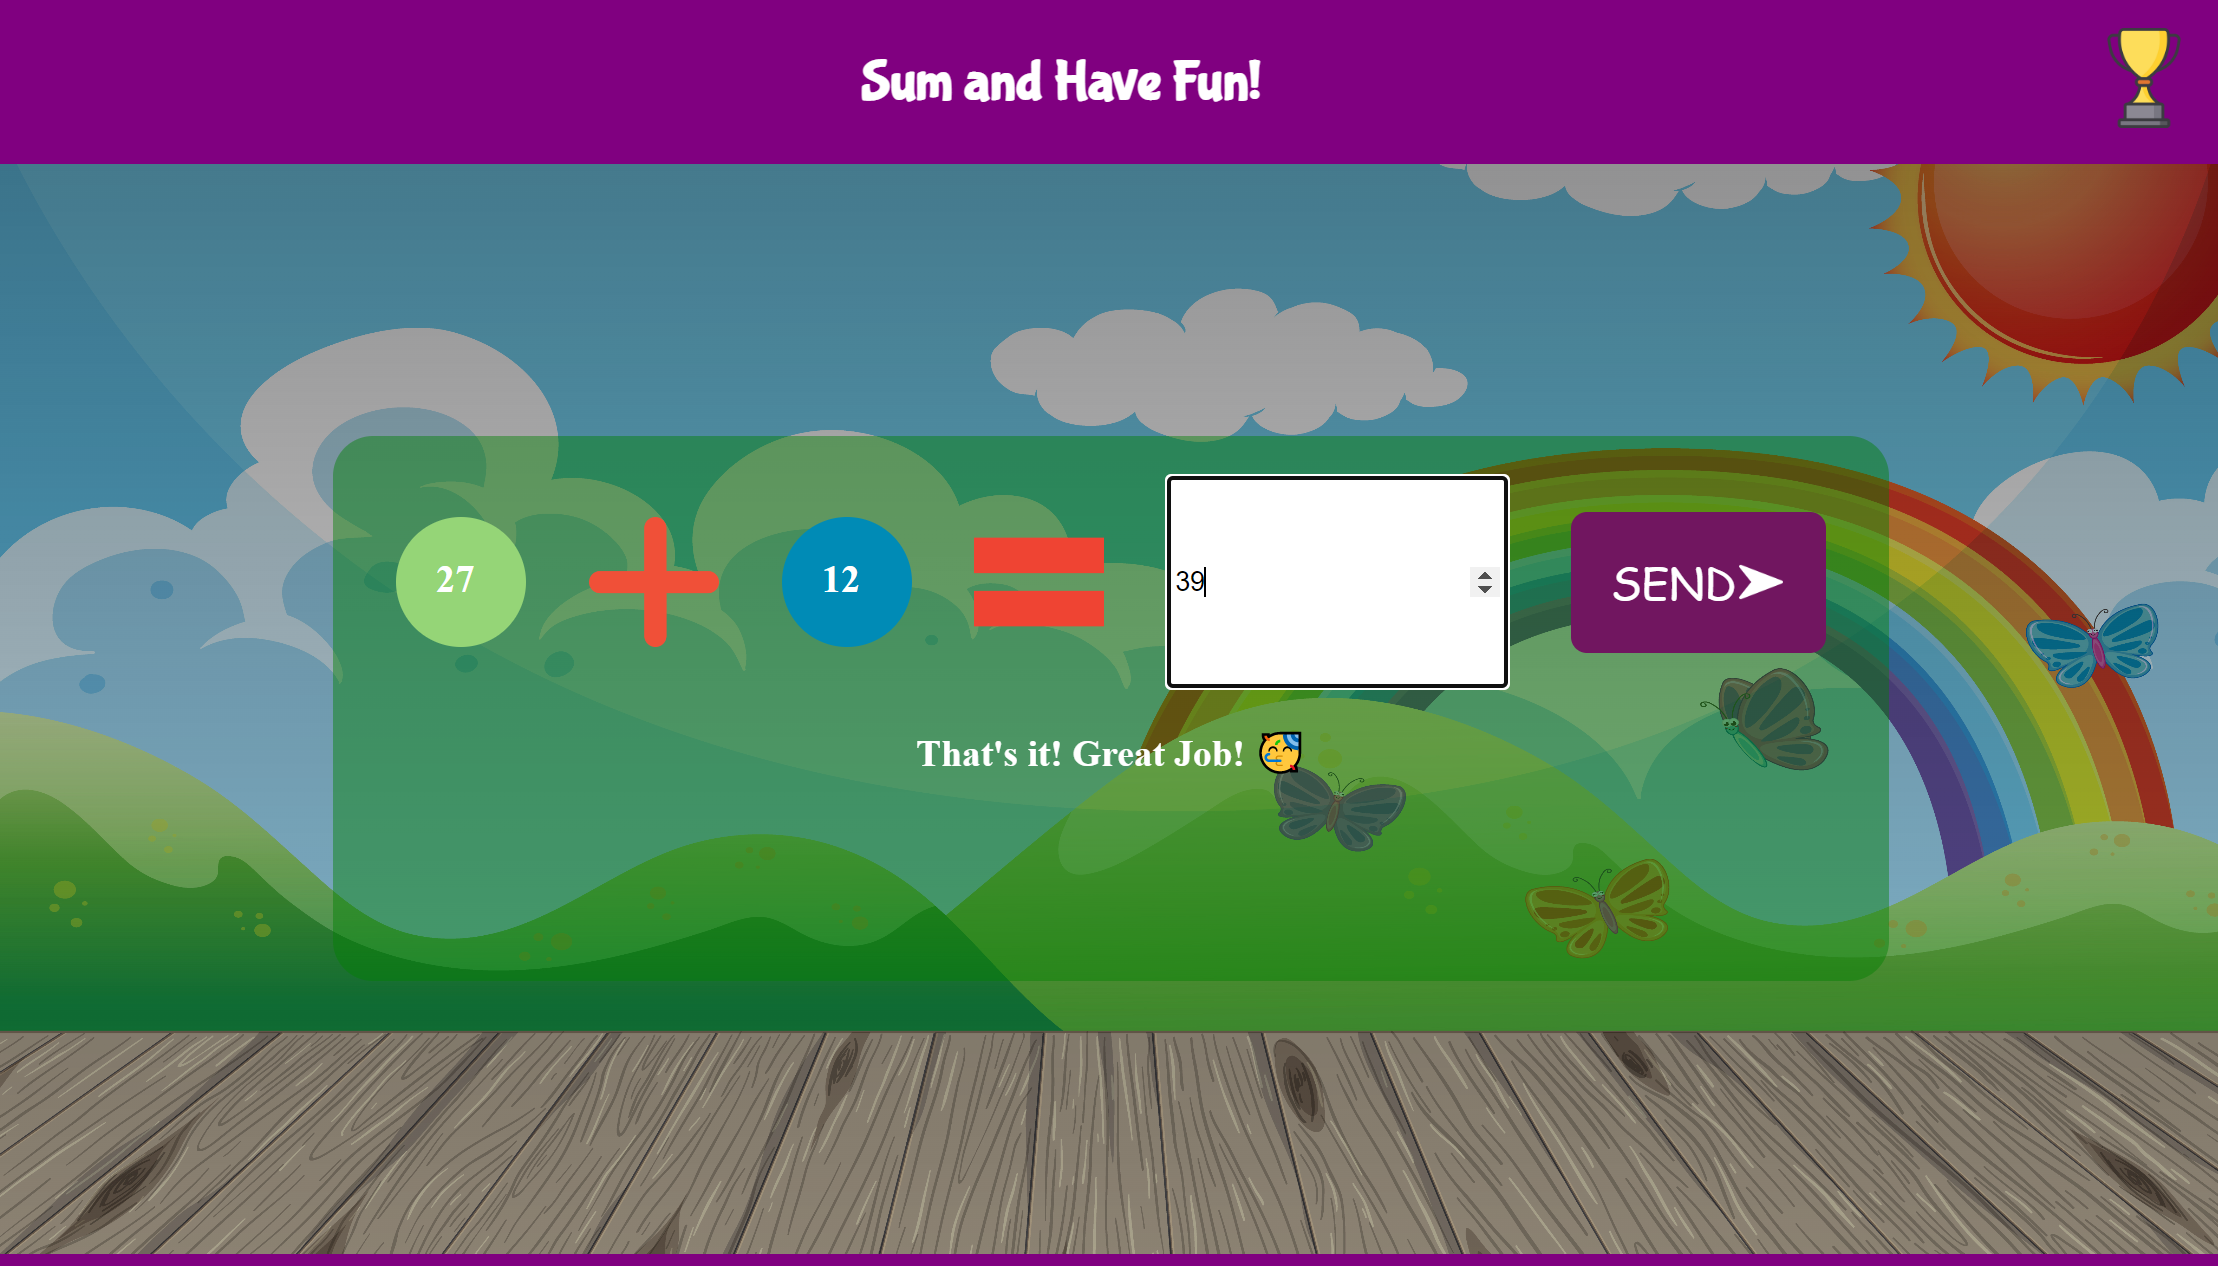
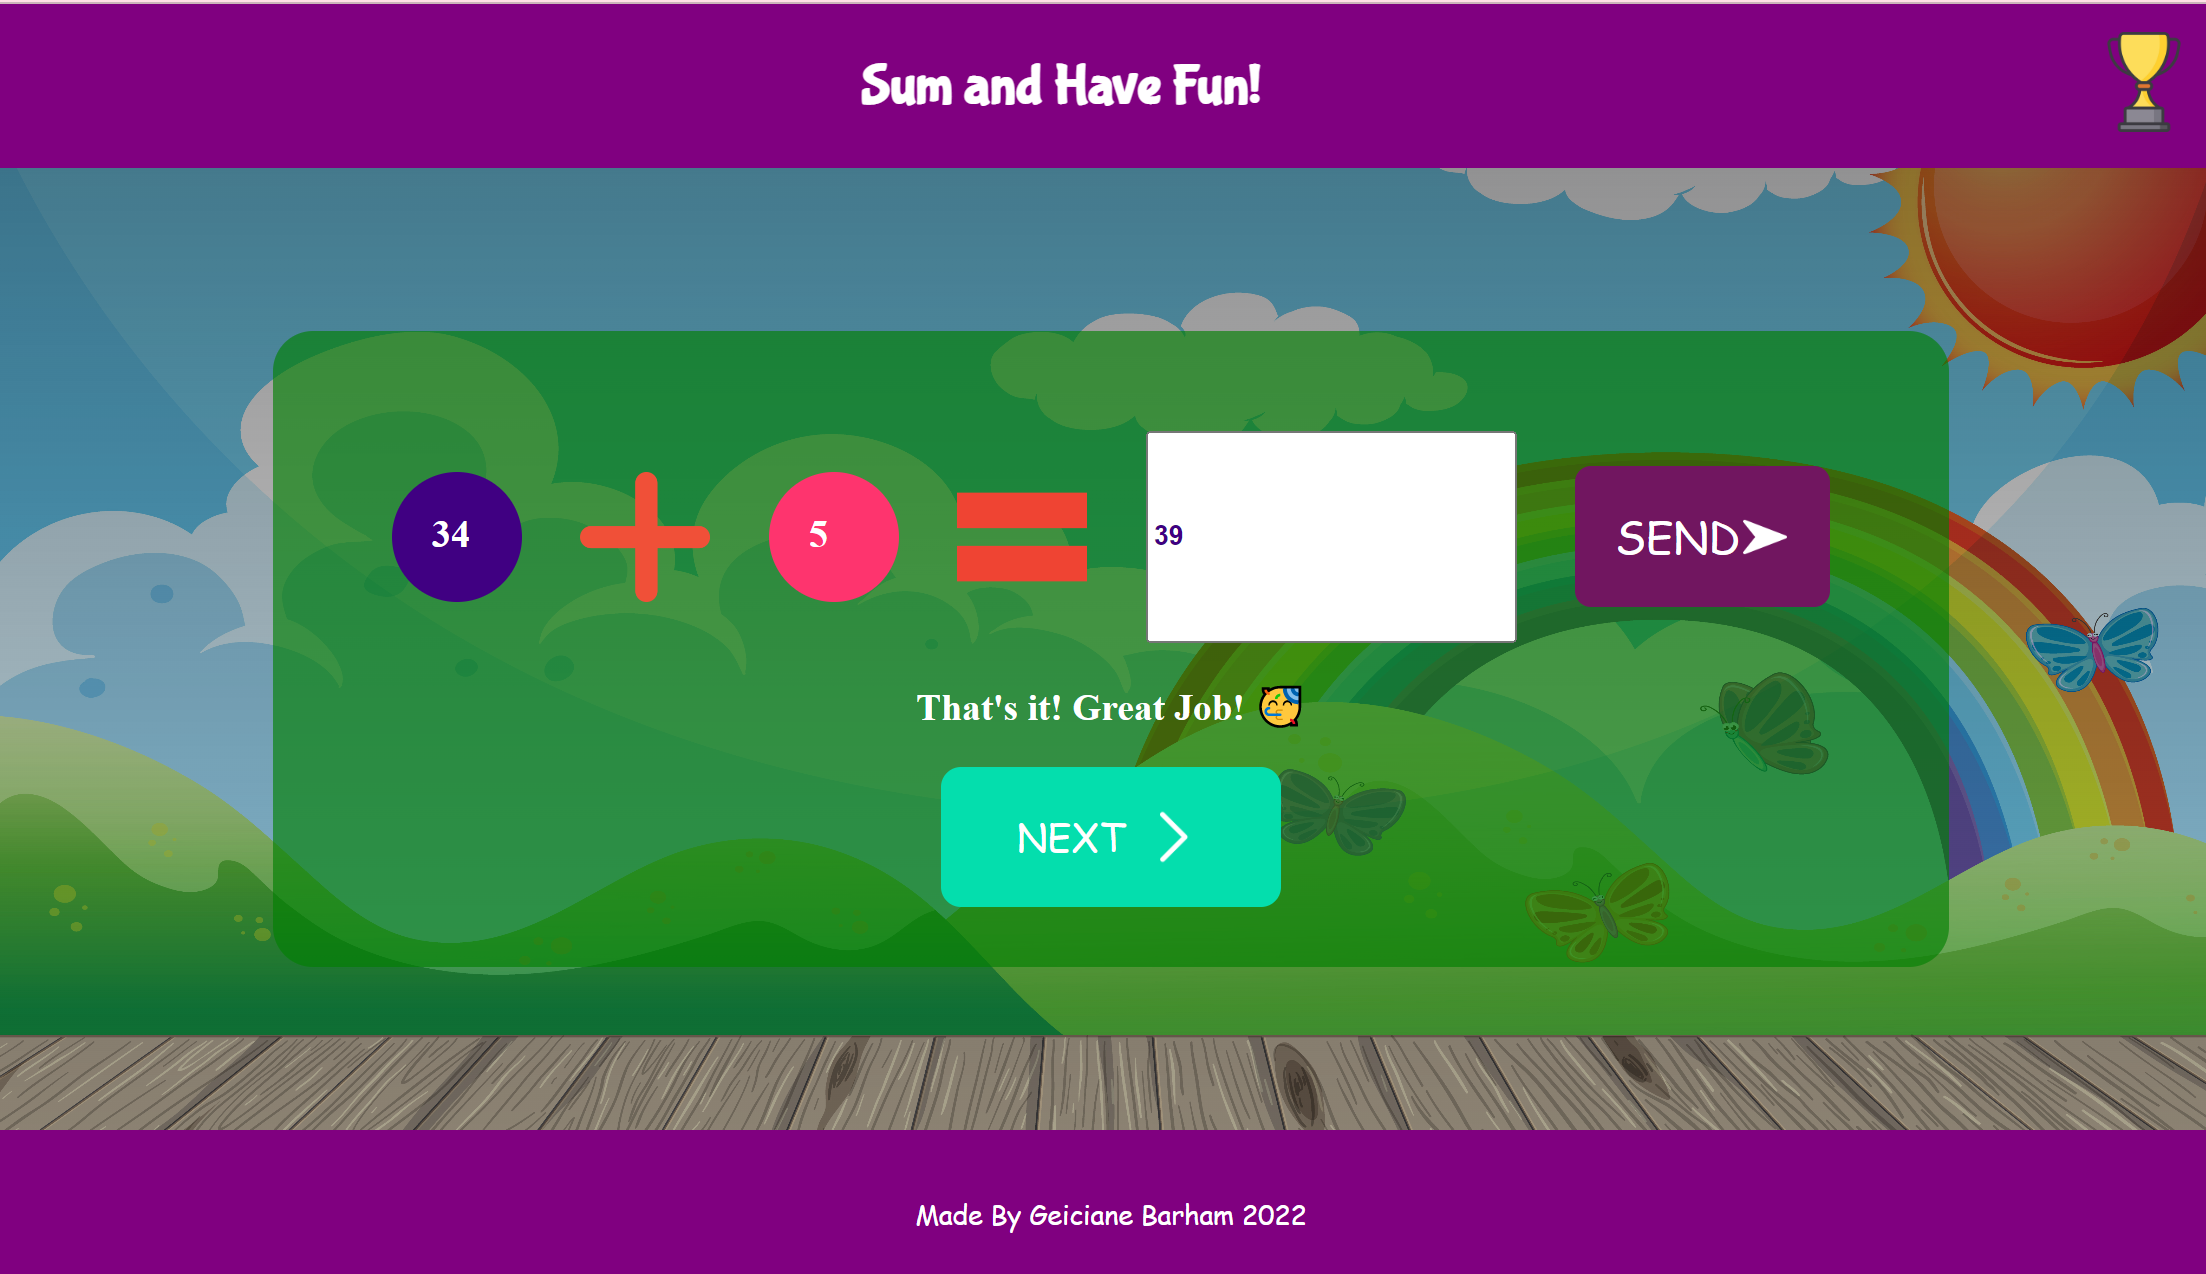
last changes in color

diff --git a/src/components/form/form.css b/src/components/form/form.css
@@ -6,20 +6,17 @@
 }
 
 .Correct {
-  background-color: rgba(0, 128, 0, 0.438);
-  width: 70%;
-  border-radius: 20px;
-  height: 50%;
+  background-color: rgba(0, 128, 0, 0.634);
+
 }
 
 .incorrect {
-  background-color: rgba(255, 0, 0, 0.226);
-  width: 70%;
-  border-radius: 20px;
-  height: 50%;
+  background-color: rgba(255, 0, 0, 0.185);
 }
 .form_container input {
   height: 100px;
+  color:#400082;
+  font-weight: bold;
 }
 
 h3 {
@@ -51,7 +48,7 @@ form {
 }
 
 .form_outer_container {
-  min-height: 85vh;
+  min-height: 80vh;
   background: linear-gradient(
       0deg,
       rgba(15, 15, 15, 0.147),
@@ -77,11 +74,11 @@ form {
 }
 
 .number1 {
-  background-color: #95d577;
+  background-color: #400082;
 }
 
 .number2 {
-  background-color: #008bb6;
+  background-color:#fe346e
 }
 
 .restartButton {
@@ -112,6 +109,7 @@ form {
     display: flex;
     justify-content: center;
     background-position: 75%;
+    min-height: 85vh;
   }
 
   form {

diff --git a/src/components/form/Form.js b/src/components/form/Form.js
@@ -32,14 +32,12 @@ const Form = () => {
 
   const checkAnswer = () => {
     if (data) {
-   
       // eslint-disable-next-line eqeqeq
       if (answer == data) {
         setCorrect("Correct");
         setFeedback("That's it! Great Job! 🥳");
       }
 
-      
       // eslint-disable-next-line eqeqeq
       if (answer != data) {
         setCorrect("incorrect");

diff --git a/planning.md b/planning.md
@@ -22,7 +22,7 @@
 <br>
 <li>Second, I reset my CSS to reduce browser inconsistencies (border, margin, font of size headings and etc).</li>
 <br>
-<li>After that, utilizing my teacher's knowledge of second-grader students (their developmental stages and what they are able to do at this age). I then started thinking about what features this app needs to provide a great user experience. Next comes the knowledge on UX that I acquired through courses, practice, and what I do daily at work while building Investor Relations Websites.</li>
+<li>After that, utilizing my teacher's knowledge of second-grader students (their developmental stages and what they are able to do at this age). I then started thinking about what features this app needs to provide a great user experience. Next comes the knowledge on UX that I acquired through courses, practice, and what I do daily at work while building Investor Relations Websites.</li> <br>
 
 <li>I know The app would need to be fun, and colorful, and the main way of communicating with the user would have to be through icons and images. </li>
 <br>
@@ -66,6 +66,6 @@ I would love to implement the possibility for the user to have their score saved
 <li>Creating a state for an array to be saved to local storage</li>
 <li>Every time the user gets the question correctly, the score would increase by 5</li>
 <li>those numbers would be pushed to that initial array, which would also have to be converted to a string since local storage only allows strings</li>
-<li>Use the use Effect hook to get the score from local storage and display it on the page.</li>
+<li>Use the use Effect hook to first convert the data from local storage to a Javascript object, then get the score from local storage and display it on the page.</li>
 </ul>
 </p>
